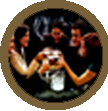
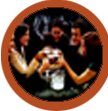
Heyo,
ich habe noch etwas mit der CSS herumgespielt und habe folgendes herausgefunden:
1) der z-Index der Sprechblase ist vollkommen unwichtig, da er offenbar vom Elternelement (also #Text) übernommen wird;
2) #Text muss höher als #Bilder sein, da sonst die Sprechblase von den Fotos verdeckt wird;
3) Die Links in Div-Boxen waren nur nicht aktiv, weil #Text und #Bilder wieder offenbar den z-Index vom Elternelement übernommen hatten- welches einen z-Index von 0 hatte. Die entsprechende Zeile habe ich rausgeschmissen, und jetzt kann ich schachteln wie ich lustig bin. Yay!

Insgesamt also hauptsächlich kleinere Änderungen für's erste.

Ansonsten, allgemeines Grafik-Update mit schön Anti-Aliasing & alternativer Button-Farbe.

diff --git a/I10a/index.html b/I10a/index.html
@@ -8,18 +8,21 @@
 </head>
 <body>
   
-  <div id="Text">
-    Dies ist die <a href="index.html">
-      Startseite<img src="gfx/layout/SpeechBubble1.png" alt="Blub"/>
-    </a>, <br/>
-      ein bloßer Platzhalter, <br/>
-      nicht viel mehr.
-      <a href="index.html">Tadaaa<img src="gfx/layout/SpeechBubble2.png" alt="Blub"/>
-    </a>
-  </div>
+  <div id="Content">
+  
+    <div id="Text">
+        Dies ist die <a href="index.html">
+        Startseite<img src="gfx/layout/SpeechBubble1.png" alt="Blub"/>
+        </a>, <br/>
+        ein bloßer Platzhalter, <br/>
+        nicht viel mehr.
+        <a href="index.html">Tadaaa<img src="gfx/layout/SpeechBubble2.png" alt="Blub"/>
+        </a>
+    </div>
     
     <div id="Bilder">
       
+    </div>
     </div>
   
   
@@ -67,8 +70,7 @@
 
   </div>
 
-    <div id="Content">
-  </div>
+
  
   
   <div id="SpeechBubble">

diff --git a/I10a/html/HIMYM Quiz.htm b/I10a/html/HIMYM Quiz.htm
@@ -6,20 +6,19 @@
 <body>
 
   <div id="Content">
-  </div>
-  <div id="Text">
-    Hier soll einmal die <a href="HIMYM Bar.htm">
-      Bar<img src="../gfx/layout/SpeechBubble1.png" alt="Blub"/>
-    </a>hin. <br/>
-      Das dauert noch etwas. <br/>
-  </div>
+      <div id="Text">
+        Hier soll einmal die <a href="HIMYM Bar.htm">
+          Bar<img src="../gfx/layout/SpeechBubble1.png" alt="Blub"/>
+        </a>hin. <br/>
+          Das dauert noch etwas. <br/>
+      </div>
     
-    <div id="Bilder">
-      <a href="HIMYM Bar.htm">
-        <img src="../gfx/layout/Polaroid1_klein.png" alt="Blub"/>
-      </a>
-    </div>
-  
+      <div id="Bilder">
+         <a href="HIMYM Bar.htm">
+            <img src="../gfx/layout/Polaroid1_klein.png" alt="Blub"/>
+         </a>
+      </div>
+  </div>
   
   <div id="Layout">Blub</div>
 

diff --git a/I10a/css/main.css b/I10a/css/main.css
@@ -159,7 +159,6 @@ top:0px;
 left:0px;
 width: 850px;
 height: 600px;
-z-index: 0;
 }
 
 div#Text /*hepo*/
@@ -169,7 +168,7 @@ top:170px;
 left:170px;
 width: 480px;
 height: 430px;
-z-index: 2;
+z-index: 3;
 }
 
 div#Bilder /*hepo*/
@@ -179,7 +178,7 @@ top:170px;
 left:670px;
 width: 180px;
 height: 430px;
-z-index: 1;
+z-index: 2;
 }
  
 #Text a img { visibility:hidden; position: absolute; top:0px;left: 530px; height: 100px; width: 150px; z-index:4; }
